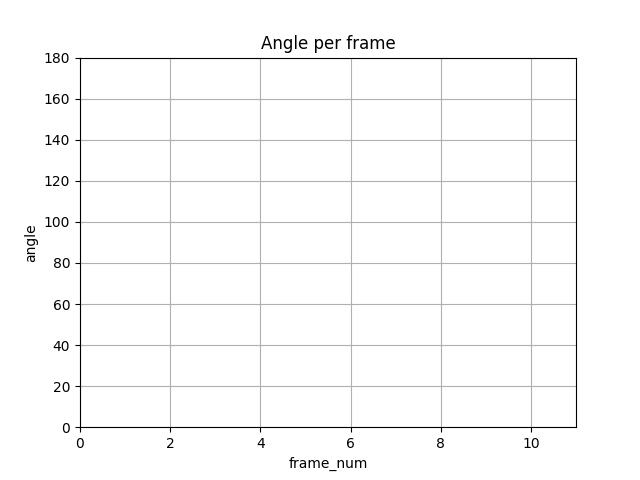
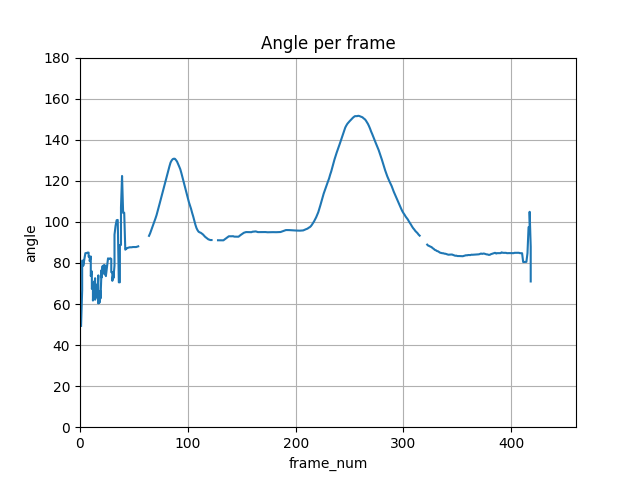
plot of cog under revision

diff --git a/demo/video.py b/demo/video.py
@@ -17,7 +17,7 @@ from utils.utils_video import video2images, image2video
 from utils.utils_image import read_image, save_image
 from utils.utils_json import write_json_to_file
 from engine.core.vis_helper import add_poseTrack_joint_connection_to_image, add_bbox_in_image
-from utils.utils_angle import hip_cul, csvplt, output, angleplt, coordplt, trandition
+from utils.utils_angle import hip_cul, csvplt, output, angleplt, angleplt_smo, coordplt, trandition
 from utils.utils_peek import angle_peek
 from utils.utils_lumina import lumina, lumina_ex
 from utils.utils_cog import cog_cul, cog_plt 
@@ -100,8 +100,11 @@ def video():
         video_candidates_list = video_info["candidates_list"]
         video_length = video_info["length"]
         prev_image_id = None
+        frame_nlist = []
+        angle_list = []
+        x_cog = []
+        y_cog = []
         for person_info in tqdm(video_candidates_list):
-            angle_list = []
             image_path = person_info["image_path"]
             xywh_box = person_info["bbox"]
             print(os.path.basename(image_path))
@@ -179,23 +182,25 @@ def video():
                 base_img_vis_save_dirs, video_name), video_name)
             print("------->Complete!")
 
-            # angleplt(frame_nlist, angle_list)
-            # print('frame_nlist : ' + str(frame_nlist))
-            # print('len(frame_nlist) : ' + str(len(frame_nlist)))
-            # print('len(x_cog) :' + str(len(x_cog)))
-            # print('len(y_cog) :' + str(len(y_cog)))
+
+            print('frame_nlist : ' + str(frame_nlist))
+            print('len(frame_nlist) : ' + str(len(frame_nlist)))
+            print('len(angle_list) : ' + str(len(angle_list)))
+            print('len(x_cog) :' + str(len(x_cog)))
+            print('len(y_cog) :' + str(len(y_cog)))
 
             csvplt(video_name, res_list)
-            angleplt(video_name, frame_nlist, angle_list)
             angle_peek(video_name, angle_list)
-            angleplt(video_name + 'x_cog', frame_nlist, x_cog)
-            angleplt(video_name + 'y_cog', frame_nlist, y_cog)
+            angleplt_smo(video_name, frame_nlist, angle_list)
+            angleplt_smo(video_name + '_x_cog', frame_nlist, x_cog)
+            angleplt_smo(video_name + '_y_cog', frame_nlist, y_cog)
             # for i in range(17):
             #     joint_num: int = i
             #     column_xlist = [r[joint_num * 2] for r in angle_list]
             #     column_ylist = [r[joint_num * 2 + 1] for r in angle_list]
             #     plt_path = './graph/' + str(joint_num).zfill(2) + '_' + joint_list[joint_num] + '.jpg'
             #     coordplt(plt_path, frame_nlist, column_xlist, column_ylist)
+
                 
 
 
